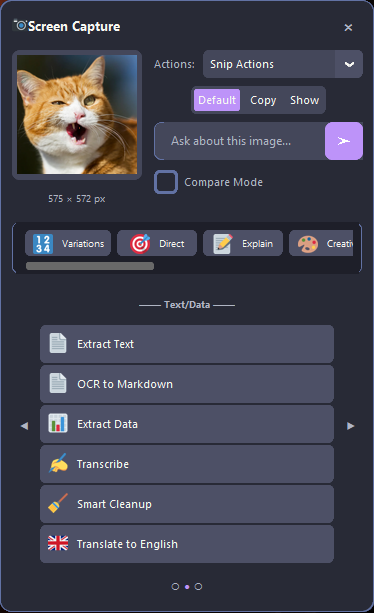
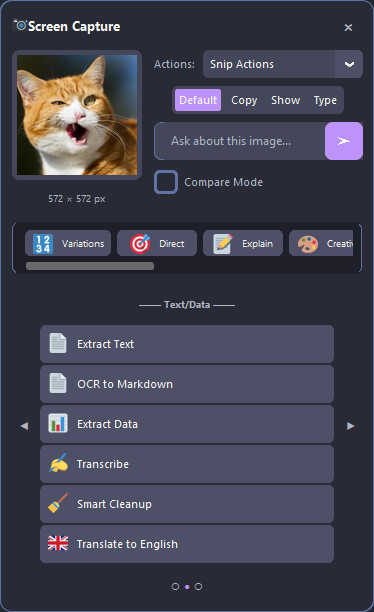
update docs

diff --git a/README.md b/README.md
@@ -1,9 +1,5 @@
 # AIPromptBridge
 
-<p align="center">
-  <strong>• AI Desktop Tools & Integration Bridge •</strong>
-</p>
-
 **AIPromptBridge** is a Windows desktop application that brings AI assistance to your fingertips. Use global hotkeys to edit text using AI, capture and analyze audio or screen content, and chat with models, all from a lightweight system tray app.
 
 ## ✨ Features
@@ -30,7 +26,7 @@ Press **Ctrl+Alt+X** to capture a region of your screen and analyze it with AI:
 - **Analysis** - **Describe**, **Summarize**, or **Explain Code**
 - **Data** - **Extract Data** to tables, **Transcribe** handwriting, or **Smart Cleanup** notes
 - **Compare** - **Compare Images** to analyze differences between two screenshots
-- **Response Modes** - Choose to show result in Chat Window, Result Panel, or Copy to Clipboard
+- **Response Modes** - Choose to show result in Chat Window, Copy to Clipboard, or Type directly into active field
 
 <br clear="right"/>
 
@@ -168,7 +164,7 @@ Right-click the tray icon for:
 1. Press **Ctrl+Alt+X**
 2. Click and drag to select a screen region
 3. Choose an action (Describe, Extract Text, etc.) or ask a question
-4. Results open in a chat window with the image attached, can also directly copied to clipboard.
+4. Results open in a chat window with the image attached, can also be copied to clipboard or typed directly into the active field.
 
 ### Audio Tool
 

diff --git a/CHANGELOG.md b/CHANGELOG.md
@@ -1,5 +1,20 @@
 # Changelog
 
+## [5.3.0] - 2026-02-21
+
+### New Features
+
+- **Snip Tool**: Added a new "Type" response mode that types the AI's response directly into the active text field.
+
+### Improvements
+
+- **Settings UX**: Clarified the `auto_save_session` setting logic in the UI and documentation to explicitly state that sessions are always saved upon receiving an AI response or sending a reply, regardless of the selected trigger mode.
+
+### Fixes
+
+- **Providers**: Prevented automatic API key rotation when receiving empty responses from Gemini and OpenAI compatible endpoints. Empty responses are now handled via a standard delay-and-retry mechanism.
+- **Prompt Editor**: Fixed an initialization issue where updating the live preview could cause attribute errors if the playground tab had not yet been loaded.
+
 ## [5.2.0] - 2026-02-20
 
 ### New Features
